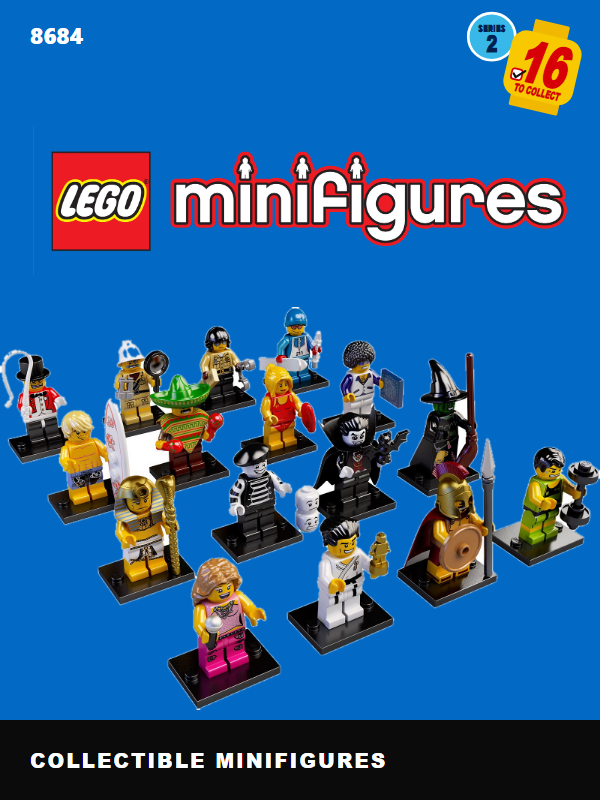
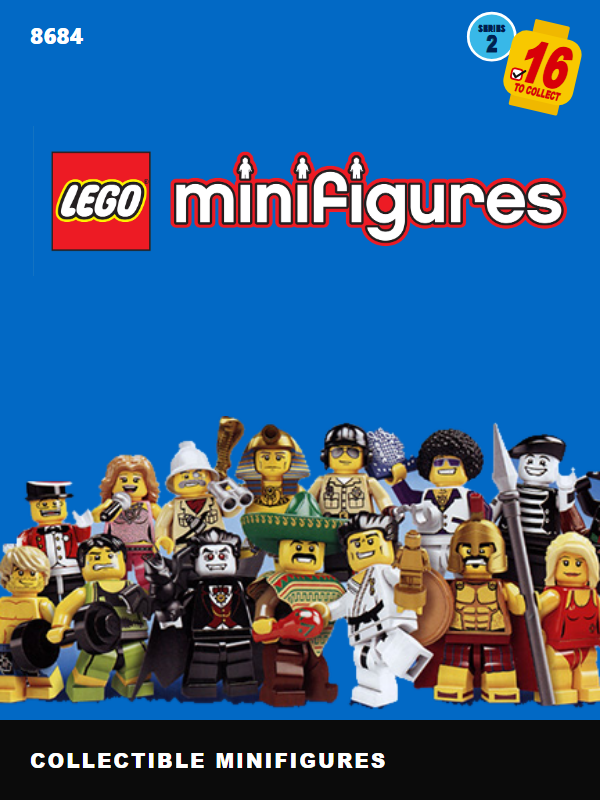
feat(V2-11): crowd photo for 8684 from official box art
New prep_group method "blue" keys out the blue box-art background
(bright blue only, so blue-tinted blacks stay). ERASE boxes paint the
printed Series 2 badge, hook and rod as background before masking.

diff --git a/scripts/prep_group.py b/scripts/prep_group.py
@@ -29,6 +29,8 @@ PREP = {
     "71000": ("71000-2.jpg", None, "white", None),
     "8909": ("8909-1.jpg", None, "white", None),
     "71002": ("71002-1.png", None, "grabcut", None),
+    # 8684: official box-back art (blue "?" background); crop drops the bottom logo row and the "16" badge.
+    "8684": ("8684-1.jpg", (0.06, 0.27, 0.93, 0.74), "blue", None),
     "71007": ("71007-1.jpg", None, "white", None),
     "71017": ("71017-1.png", (0, 0.08, 1, 0.455), "white", None),
     "71023": ("71023-1.jpg", (0, 0.2, 1, 0.9), "grabcut", None),
@@ -36,6 +38,11 @@ PREP = {
     # drops the flying heroes above it.
     "71031": ("71031-0.png", None, "alpha", None),
 }
+
+# id -> boxes (fractions of the source) painted as background before masking: printed badges on box art.
+# 8684: the red "Series 2" badge (x 124-180, y 126-187 of 690x480), its white hook and rod, top left. Boxes set by eye against the source.
+ERASE = {"8684": [(0.1797, 0.2625, 0.2609, 0.3896), (0.1406, 0.302, 0.1797, 0.454), (0.171, 0.3896, 0.1855, 0.4833)]}
+ERASE_FILL = (0, 70, 190)                                  # deep blue: keyed out by blue_mask
 
 
 def keep_big(fg, share=0.002):
@@ -100,6 +107,22 @@ def gap_cut(alpha, x, window):
     return lo + int(np.argmin(cover[lo:hi + 1]))
 
 
+def blue_mask(rgb, margin=28, b_min=60, hole_max=0.004):
+    """Box art on a blue background (8684): background = blue-dominant pixels. Enclosed blue parts smaller than
+    hole_max of the image (blue stripes on a figure) are filled back in as figure."""
+    r, g, b = (rgb[:, :, i].astype(int) for i in range(3))
+    # b_min: black parts with a blue sheen (8684 ringmaster hat, b about 20) stay figure; background b is 125+.
+    bg = (b > r + margin) & (b > g + margin // 3) & (b > b_min)
+    bg = ndimage.binary_opening(bg, iterations=1)
+    fg = ~bg
+    holes = ndimage.binary_fill_holes(fg) & ~fg
+    labels, n = ndimage.label(holes)
+    if n:
+        sizes = ndimage.sum(holes, labels, range(1, n + 1))
+        fg |= np.isin(labels, 1 + np.flatnonzero(sizes < hole_max * fg.size))
+    return ndimage.binary_opening(fg, iterations=1)
+
+
 def grabcut_mask(rgb, border=0.03, iterations=6):
     import cv2
     h, w = rgb.shape[:2]
@@ -141,6 +164,8 @@ def frac_box(size, box):
 def prep(sid):
     name, pre, method, zoom = PREP[sid]
     src = Image.open(SRC / name).convert("RGBA")
+    for box in ERASE.get(sid, []):
+        src.paste(ERASE_FILL + (255,), frac_box(src.size, box))
     if pre:
         src = src.crop(frac_box(src.size, pre))
     im = src.convert("RGB")
@@ -154,9 +179,10 @@ def prep(sid):
         out = src.copy()
         out.putalpha(Image.fromarray((fg * 255).astype(np.uint8)).filter(ImageFilter.GaussianBlur(0.6)))
     else:
-        masks = {"white": white_mask, "shadow": shadow_mask, "grabcut": grabcut_mask}
+        masks = {"white": white_mask, "shadow": shadow_mask, "grabcut": grabcut_mask,
+                 "blue": blue_mask}
         fg = keep_big(masks[method](rgb))
-        colour, alpha = unmix_white(rgb, fg) if method != "grabcut" else (rgb, (fg * 255).astype(np.uint8))
+        colour, alpha = unmix_white(rgb, fg) if method not in ("grabcut", "blue") else (rgb, (fg * 255).astype(np.uint8))
         out = Image.fromarray(colour).convert("RGBA")
         out.putalpha(Image.fromarray(alpha).filter(ImageFilter.GaussianBlur(0.5)))
     out = out.crop(Image.fromarray((fg * 255).astype(np.uint8)).getbbox())

diff --git a/mockups/V2-11/crowd-candidates/SOURCES.md b/mockups/V2-11/crowd-candidates/SOURCES.md
@@ -19,3 +19,4 @@ Still missing: 8683, 8684, 71002, 8909 (next: Brickset/Brick Owl/BrickLink set p
 - 71031-0.png — previous card image mockups/assets/group/71031.png (see mockups/assets/group/SOURCES.md), kept as the zoom source.
 Hunt 3 (2026-11-09): 8684 and 71008 none found (Brickset 8684-17 and 71008-17 are stand grids; Brickset Series 13 promo has podiums and text). 71031: no better packed render than the current one.
 Used for cards 2026-11-09 by scripts/prep_group.py: 8683-2, 8803-1, 8805-1, 8831-1, 8833-1, 71000-2, 8909-1, 71002-1, 71007-1, 71017-1 (top crowd), 71023-1 (watermark cropped), 71031-0.
+- 8684-1.jpg (690x480) — PAGE: https://lego.razfill.ru/all-lego/lego-8684-minifigures-series-2 SOURCE: https://images.brickset.com/sets/images/8684-18.jpg — official box-back art, true crowd of 16 on blue "?" background; Series 2 badge erased, blue keyed out (prep_group.py method "blue"). Hunt 5 (2026-11-11, Bing Images): 71008 none found (Brickset 71008-17 stand grid, eBay 5x3 grid on white).
